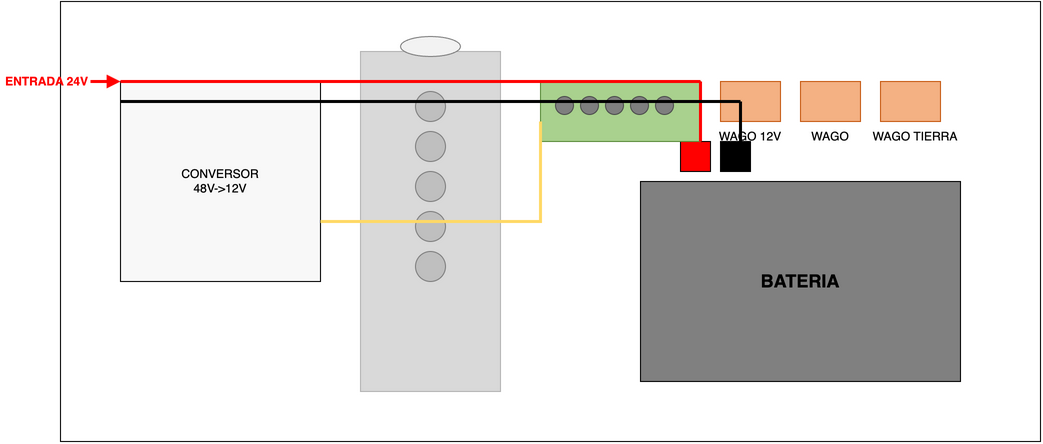
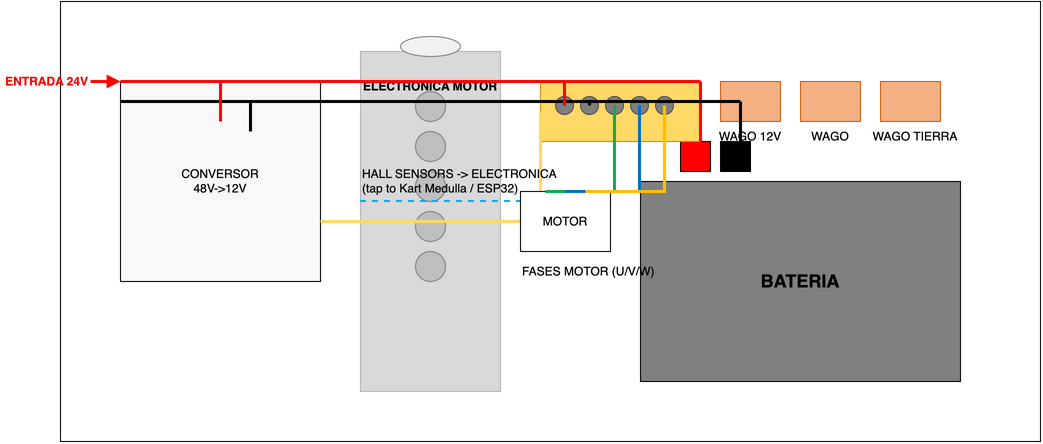
Update wiring diagram and EBS parts

Changed region(s): [[0.3375, 0.1757, 0.675, 0.527], [0.4909, 0.5856, 0.6443, 0.6441], [0.3375, 0.1757, 0.4909, 0.205]]

diff --git a/docs/assembly/emergency-braking/index.md b/docs/assembly/emergency-braking/index.md
@@ -47,21 +47,23 @@ The system uses a shuttle valve (OR logic) to allow either the emergency line or
 
 ## Components
 
-**Thread standard:** Default to **G1/4** across the EBS pneumatic system. Only keep **G1/8** when a component forces it (e.g., the actuator), and use adapters as needed.
+**Thread standard:** Default to **G1/4** across the EBS pneumatic system. Only keep **G1/8** when a component forces it (e.g., the actuator), and use a short G1/4 -> G1/8 adapter as needed.
 
 ### Actuators & Valves
-- [x] **Pneumatic Actuator** (ADN-S-50-15-I-P-A) - Reuse
-    > **CRITICAL:** This cylinder uses **G1/8** ports, not  G1/4.
-    - [Datasheet](https://www.festo.com/gb/en/a/5138190/)
+- [x] **Pneumatic Actuator** (ADN-S-50-45-I-P-A) - Reuse
+    > **CRITICAL:** This cylinder uses **G1/8** ports, not G1/4.
+    - [Datasheet](https://www.festo.com/gb/en/a/8084714/)
 - [x] **EBS Electrovalve V1** (Reuse)
     - Normally Open / 3-way valve.
+    - Festo VUVS-LT25-M32U-MD-G14-F8 (8035174).
     - **Action:** Needs a silencer on port 3.
 - [ ] **ASB Electrovalve V2** (New)
-    - [Festo VUVG-L14](https://www.festo.com/es/es/a/8035167/)
+    - Festo VUVS-LT25-M32C-MD-G14-F8 (8035167).
     - **Action:** Needs a silencer on port 3.
-- [ ] **Proportional Valve** (VPPM-6L-L-1-G18-0L10H-A4P)
+- [ ] **Proportional Valve** (VPPM-8L-L-1-G14-0L10H-V1P-S1C1, 571293)
     > Controls the service brake pressure (ASB).
-    - [Datasheet](https://www.festo.com/es/es/a/download-document/datasheet/8153644)
+    - 0-10V setpoint, 0-10 bar regulation, G1/4 ports.
+    - [Festo search](https://www.festo.com/gb/en/search/?text=VPPM-8L-L-1-G14-0L10H-V1P-S1C1)
     - **Action:** Requires specific M12 cable (see cables below).
 - [ ] **Shuttle Valve (OR)** (OS-1/4-B)
     > Merges EBS and ASB lines.
@@ -74,24 +76,22 @@ The system uses a shuttle valve (OR logic) to allow either the emergency line or
     - [Product Page](https://www.festo.com/cat/en-gb_gb/products_SDE5)
     - **Note:** Does not require a threaded adapter. Connects directly to tubing.
 - [ ] **Cable for Proportional Valve**
-    - **Ref:** `NEBU-M12G8...` (M12, 8-pin, shielded).
+    - **Ref:** `NEBU-M12W8-K-2-N-LE8` (M12, 8-pin, shielded).
     - Necessary to control the VPPM.
 - [ ] **Cable for Sensor**
-    - **Ref:** `NEBU-M8G3...` (M8, 3-pin).
+    - **Ref:** `NEBU-M8G3-K-2.5-LE3` (M8, 3-pin).
     - For the SDE5 sensor.
 
 ### Fittings & Accessories
-- [ ] **Tubing:** [Polyurethane Tubing 6mm OD (PUN-H-6x1)](https://www.festo.com/gb/en/search/?text=PUN-H-6x1)
-- [ ] **G1/8 Fittings:** 4x [QS-G1/8-6 (Male G1/8 -> 6mm push-in)](https://www.festo.com/gb/en/search/?text=QS-G1%2F8-6)
-    > Required for: Actuator (ADN-S-50) and New Electrovalve (V2).
-- [ ] **G1/4 Fittings:** 7x [QS-G1/4-6 (Male G1/4 -> 6mm push-in)](https://www.festo.com/gb/en/search/?text=QS-G1%2F4-6)
-    > Required for: Shuttle Valve (3x), Proportional Valve (2x), and Reuse Electrovalve V1 (2x).
+- [ ] **Tubing:** 6 mm OD / 4 mm ID (Festo 197384).
+    - [Festo search](https://www.festo.com/gb/en/search/?text=197384)
+- **FS rules:** Push-in (QS/QST) fittings are not accepted. Use threaded compression or barbed + clamp fittings.
+- [ ] **Compression fittings (6 mm tube):**
+    - TCN-1/8-PK-6 (tees, G1/8).
+    - TCN-1/4-PK-6 (tees, G1/4).
+    - CRCN-1/8-PK-6, HCRCN-1/8-PK-6 (straight/elbow, actuator + V2).
+    - CRCN-1/4-PK-6, HCRCN-1/4-PK-6 (straight/elbow, rest of valves).
+- [ ] **Adapter:** Short G1/4 -> G1/8 (actuator ports only).
 - [ ] **Silencers:**
     - 1x [U-1/8](https://www.festo.com/gb/en/search/?text=U-1%2F8) (For New Valve V2).
     - 1x [U-1/4](https://www.festo.com/gb/en/search/?text=U-1%2F4) (For Reuse Valve V1).
-
-- [ ] **Distribution Tees (Choose Option A or B):**
-    - **Option A (Recommended - Flexible):** 3x [Plastic T-Connector 6mm (T-PK-4)](https://www.festo.com/gb/en/search/?text=T-PK-4)
-        > Allows a floating layout. Compatible with all components regardless of their thread size.
-    - **Option B (Rigid):** 3x [Threaded T-Fitting (TCN)](https://www.festo.com/gb/en/search/?text=TCN)
-        > Mounts directly onto the valves. Requires ordering a mix of TCN-1/8 and TCN-1/4 to match each specific valve.

diff --git a/docs/assembly/electronics/wiring.md b/docs/assembly/electronics/wiring.md
@@ -2,7 +2,7 @@
 TODO global diagram (Fritzing?)
 
 ## Power entry diagram
-![](images/power-entry.png)
+![](wiring/images/power-entry.png)
 
 ## Net naming
 
